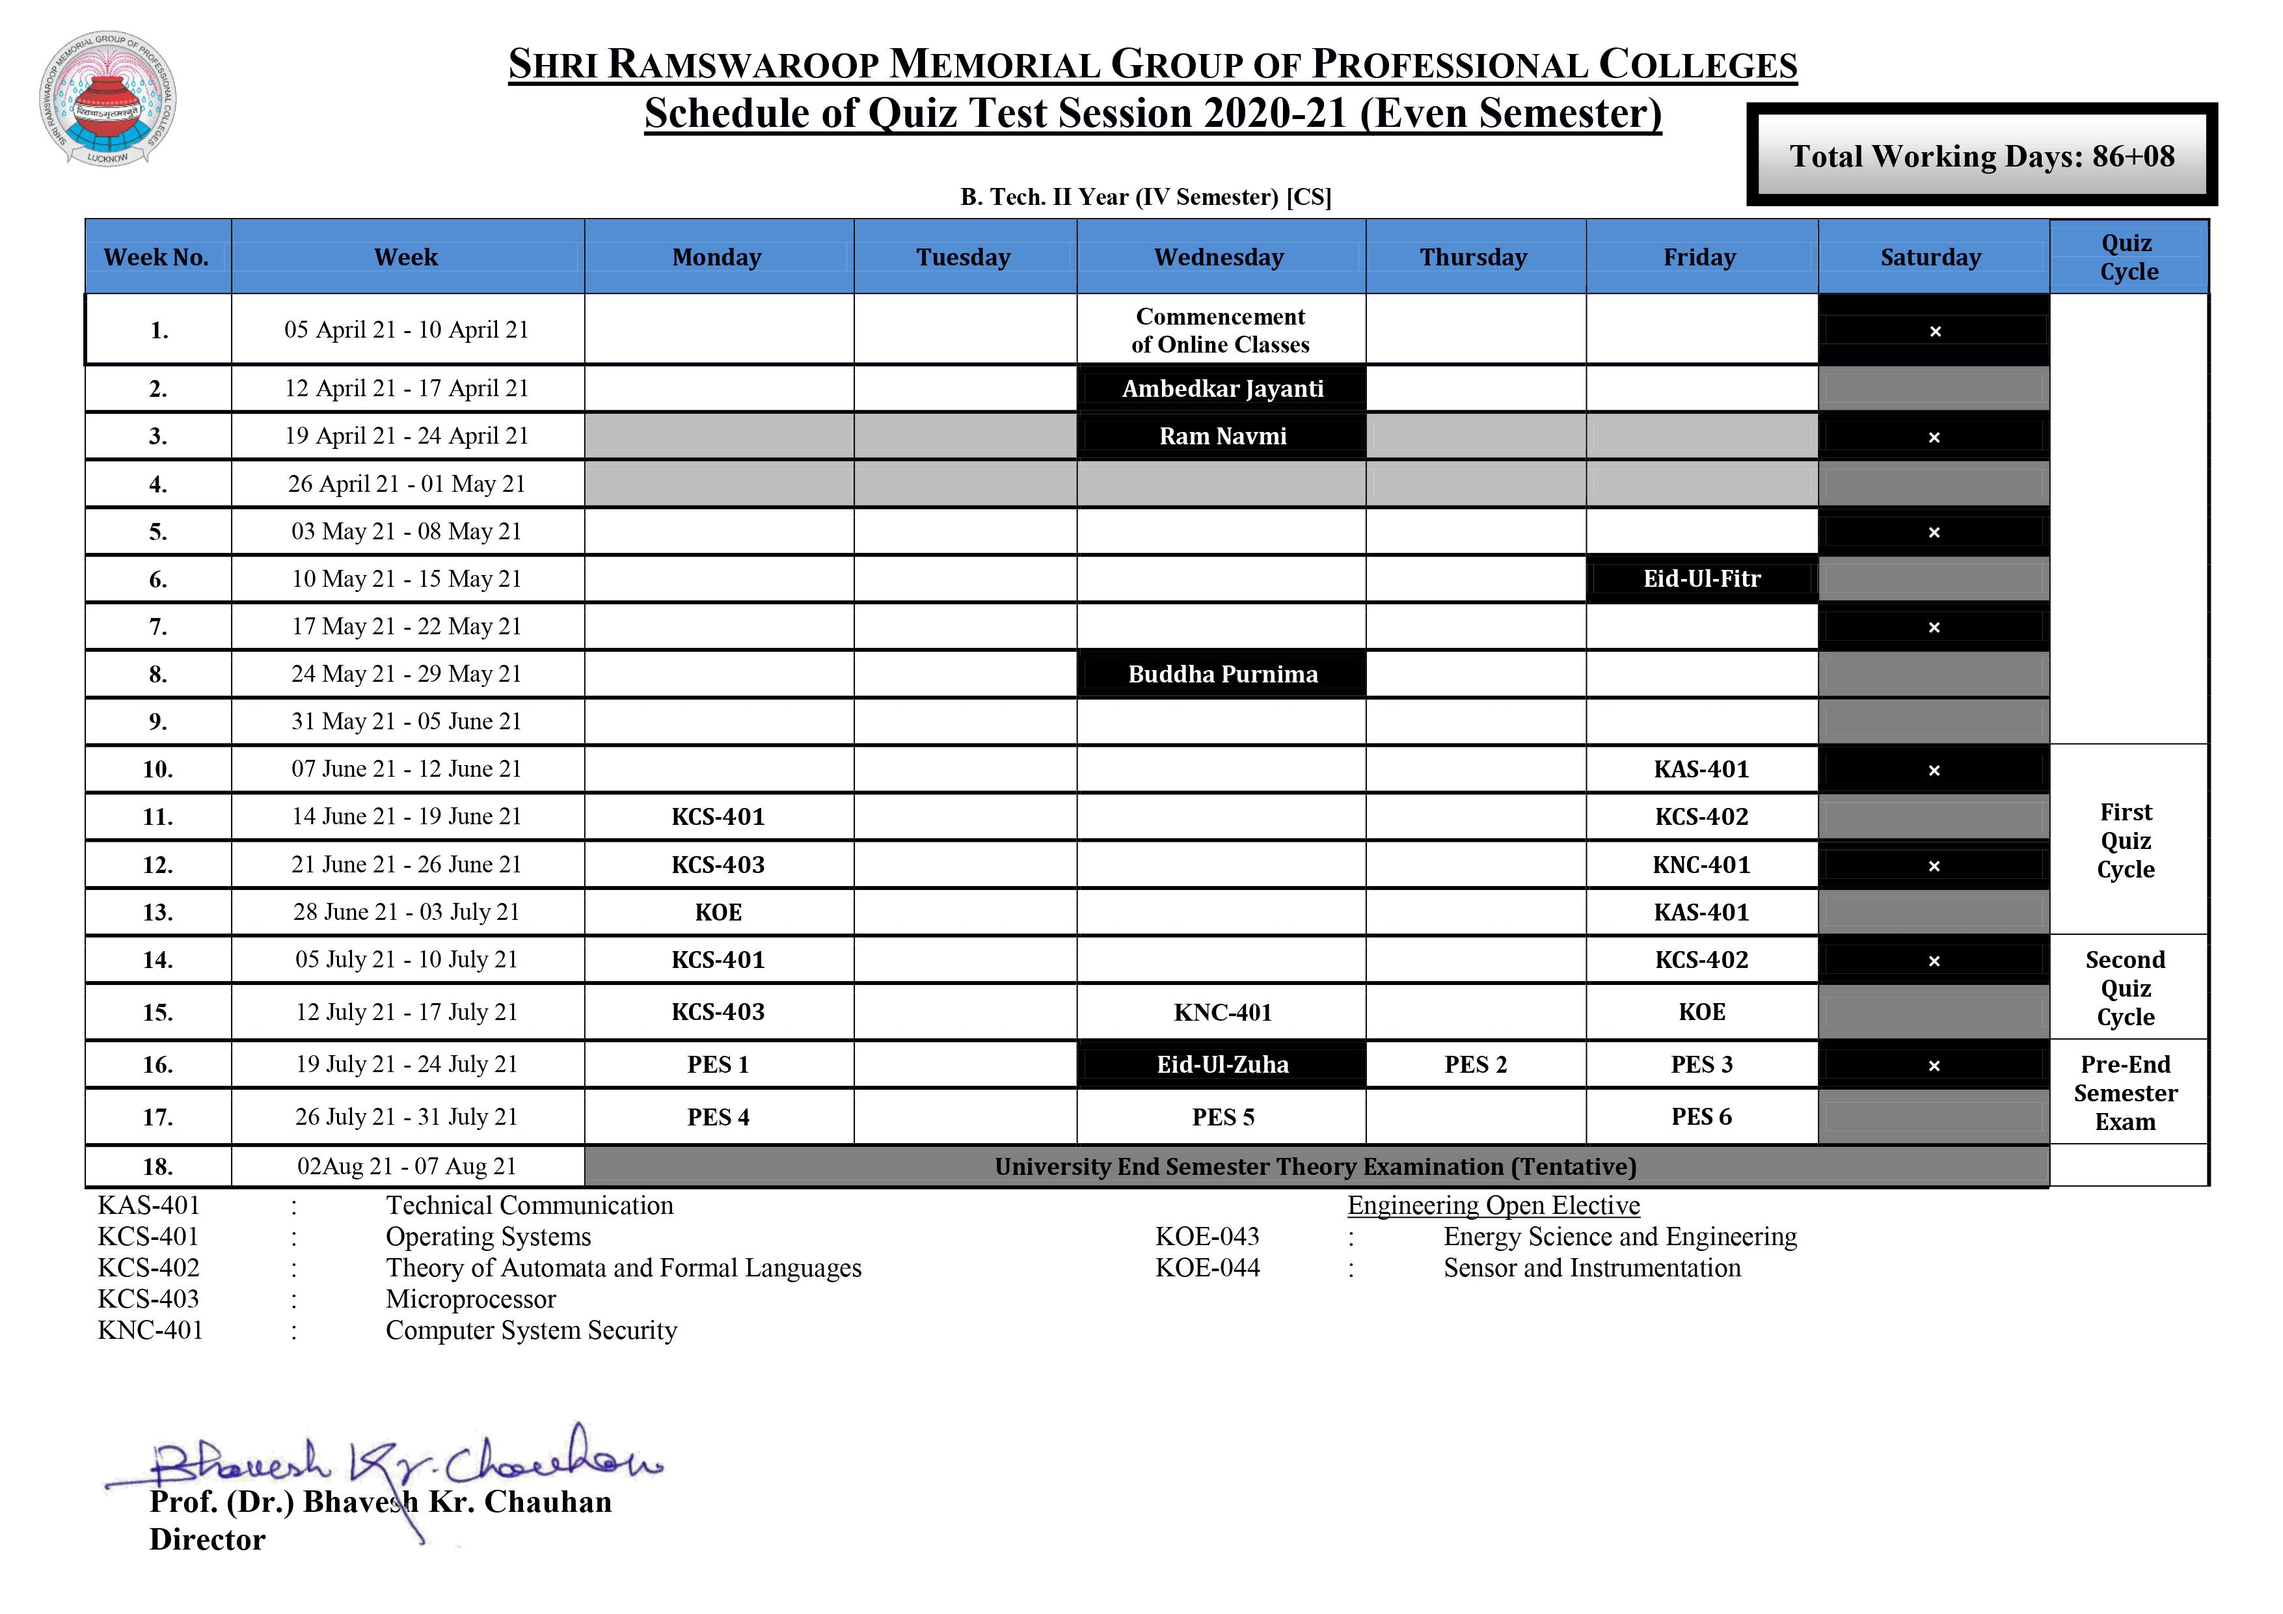
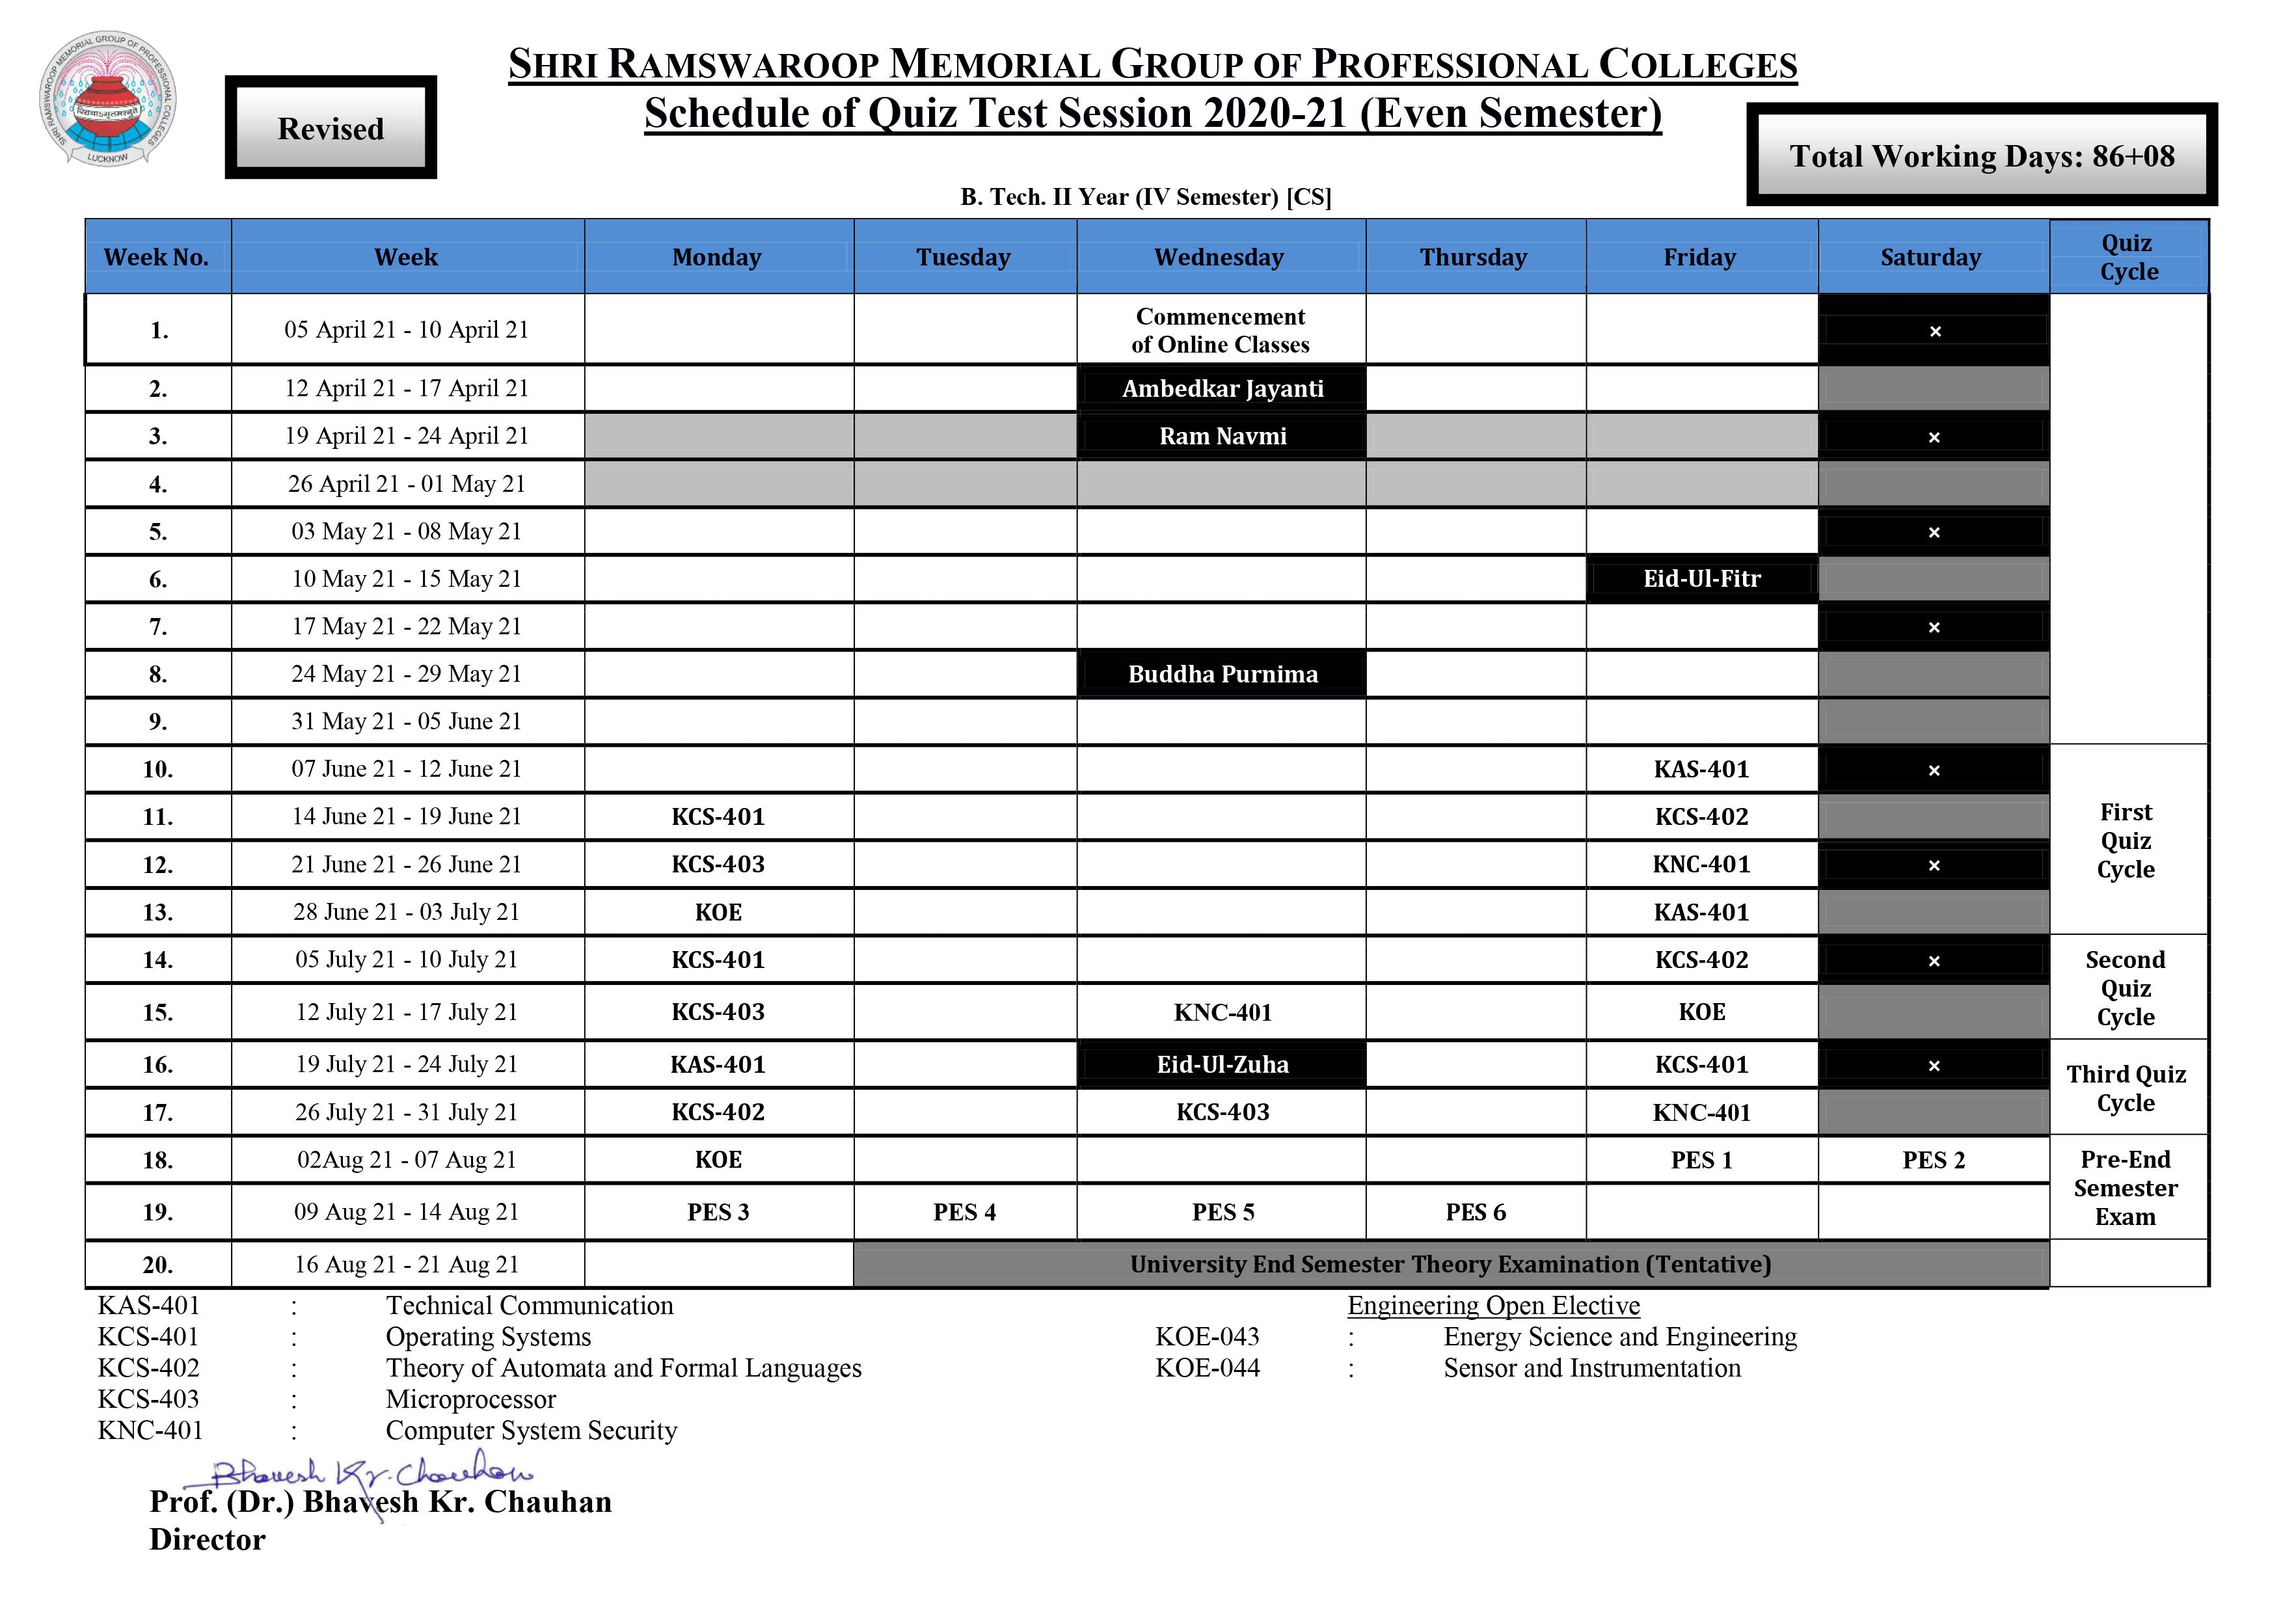
[+] New Schedule Added

Changed region(s): [[0.0311, 0.6518, 0.963, 0.9621], [0.0932, 0.031, 0.2174, 0.1241]]

diff --git a/classdetail/templates/classdetail/current.html b/classdetail/templates/classdetail/current.html
@@ -60,7 +60,11 @@
             {% if ldetail.0.title == 'One Hour Quiz' %}
             <!-- <span class="font-weight-bold">BREAK 🤩<br></span> -->
             <p>* If there is <strong>NO Quiz</strong> in Schedule, then there will be <strong>NO Class.</strong></p>
+            {% if branch == '10' %}
             <img src="{% static 'classdetail/CS_Even.jpg' %}" class="img-fluid" alt="Quiz Shedule">
+            {% else %}
+            <img src="{% static 'classdetail/IT_Even.jpg' %}" class="img-fluid" alt="Quiz Shedule">
+            {% endif %}
             {% elif ldetail.0|length == 2 %}
             <h3 class="text-center"><u>Open Electives</u></h3>
             <span class="font-weight-bold">Subject Name: {{ ldetail.0.0.title }}<br></span>

diff --git a/classdetail/verifyCS.py b/classdetail/verifyCS.py
@@ -112,7 +112,7 @@ def verifyCS(username, wday):
                 t_table = ['1', '2', '3', '4', ' ', '5', '12', '20', '20']
                 return t_table
             elif wday == 2:
-                t_table = ['2', '3', '6', '5', ' ', ' ', ' ', ' ', ' ']
+                t_table = ['100', '3', '6', '5', ' ', ' ', ' ', ' ', ' ']
                 return t_table
             elif wday == 3:
                 t_table = ['2', '1', '4', '3', ' ', ' ', '12', ' ', ' ']
@@ -135,7 +135,7 @@ def verifyCS(username, wday):
                 t_table = ['1', '2', '3', '4', ' ', '5', '18', '15', ' ']
                 return t_table
             elif wday == 2:
-                t_table = ['2', '3', '6', '5', ' ', '25', '25', '24', '24']
+                t_table = ['100', '3', '6', '5', ' ', '25', '25', '24', '24']
                 return t_table
             elif wday == 3:
                 t_table = ['2', '1', '4', '3', ' ', '17', '18', ' ', ' ']
@@ -144,7 +144,7 @@ def verifyCS(username, wday):
                 t_table = ['100', '3', '6', '16', ' ', ' ', ' ', ' ', ' ']
                 return t_table
             elif wday == 5:
-                t_table = [' ', '24', '24', ' ', ' ', ' ', ' ', ' ', ' ']
+                t_table = [' ']
                 return t_table
             elif wday == 6:
                 t_table = [' ']
@@ -158,7 +158,7 @@ def verifyCS(username, wday):
                 t_table = ['3', '1', '5', '2', ' ', '4', '12', ' ', ' ']
                 return t_table
             elif wday == 2:
-                t_table = ['3', '4', '6', '1', ' ', ' ', '11', '14', '14']
+                t_table = ['100', '4', '6', '1', ' ', ' ', '11', '14', '14']
                 return t_table
             elif wday == 3:
                 t_table = ['15', '15', '5', '10', ' ', '8', '12', '9', ' ']
@@ -181,7 +181,7 @@ def verifyCS(username, wday):
                 t_table = ['2', '3', '4', '5', ' ', '10', '12', '21', '21']
                 return t_table
             elif wday == 2:
-                t_table = ['1', '2', '6', '3', ' ', ' ', ' ', ' ', ' ']
+                t_table = ['100', '2', '6', '3', ' ', ' ', ' ', ' ', ' ']
                 return t_table
             elif wday == 3:
                 t_table = ['1', '4', '3', '5', ' ', '8', '12', '20', '20']
@@ -204,7 +204,7 @@ def verifyCS(username, wday):
                 t_table = ['2', '3', '4', '5', ' ', '15', '18', '25', '25']
                 return t_table
             elif wday == 2:
-                t_table = ['1', '2', '6', '3', ' ', '17', '16', ' ', ' ']
+                t_table = ['100', '2', '6', '3', ' ', '17', '16', ' ', ' ']
                 return t_table
             elif wday == 3:
                 t_table = ['1', '4', '3', '5', ' ', ' ', '18', '17', ' ']

diff --git a/classdetail/verifyIT.py b/classdetail/verifyIT.py
@@ -112,7 +112,7 @@ def verifyIT(username, wday):
                 t_table = ['2', '1', '10', '4', ' ', '5', '12', '21', '21']
                 return t_table
             elif wday == 2:
-                t_table = ['3', '8', '6', '5', ' ', ' ', ' ', ' ', ' ']
+                t_table = ['100', '8', '6', '5', ' ', ' ', ' ', ' ', ' ']
                 return t_table
             elif wday == 3:
                 t_table = ['1', '3', ' ', ' ', ' ', '9', '12', '20', '20']
@@ -135,7 +135,7 @@ def verifyIT(username, wday):
                 t_table = ['2', '1', '14', '4', ' ', '5', '18', ' ', ' ']
                 return t_table
             elif wday == 2:
-                t_table = ['3', '16', '6', '5', ' ', '23', '23', '25', '25']
+                t_table = ['100', '16', '6', '5', ' ', '23', '23', '25', '25']
                 return t_table
             elif wday == 3:
                 t_table = ['1', '3', '24', '24', ' ', '17', '18', ' ', ' ']
@@ -158,7 +158,7 @@ def verifyIT(username, wday):
                 t_table = ['1', '3', '2', '5', ' ', '10', '12', '22', '22']
                 return t_table
             elif wday == 2:
-                t_table = ['1', '2', '6', '4', ' ', ' ', ' ', ' ', ' ']
+                t_table = ['100', '2', '6', '4', ' ', ' ', ' ', ' ', ' ']
                 return t_table
             elif wday == 3:
                 t_table = ['3', '2', '1', '5', ' ', ' ', '12', ' ', ' ']
@@ -181,7 +181,7 @@ def verifyIT(username, wday):
                 t_table = ['1', '3', '2', '5', ' ', ' ', '18', ' ', ' ']
                 return t_table
             elif wday == 2:
-                t_table = ['1', '2', '6', '4', ' ', '17', ' ', ' ', ' ']
+                t_table = ['100', '2', '6', '4', ' ', '17', ' ', ' ', ' ']
                 return t_table
             elif wday == 3:
                 t_table = ['3', '2', '15', '5', ' ', '16', '18', '24', '24']

diff --git a/classdetail/views.py b/classdetail/views.py
@@ -308,7 +308,7 @@ def currentusr(request):
                         ldetail.append('BREAK')
     e = len(temp_list)
     appData = AppRelease.objects.all().order_by('-releaseDate')[0]
-    return render(request, 'classdetail/current.html', {'ldetail':ldetail, 'c':c, 'd':d, 'e':e, 'appData':appData})
+    return render(request, 'classdetail/current.html', {'ldetail':ldetail, 'c':c, 'd':d, 'e':e, 'branch':branch, 'appData':appData})
 
 def apiv1CS(request):
     odd = False
